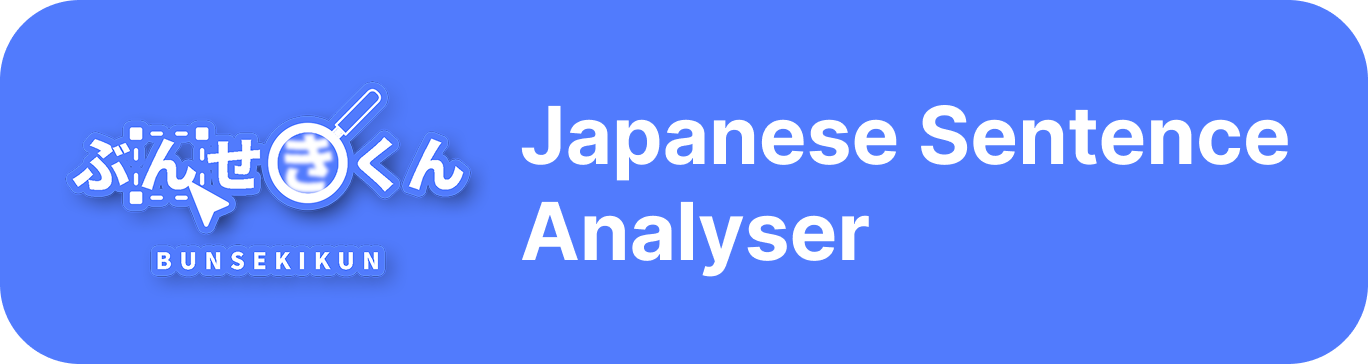
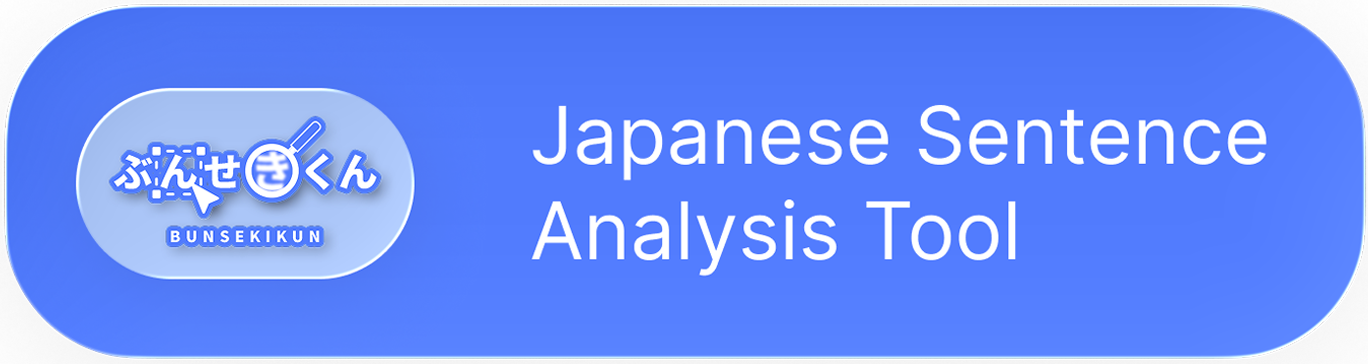
Liquid Glass実装

Changed region(s): [[0.0, 0.0, 1.0, 1.0], [0.3684, 0.272, 0.9518, 0.5137], [0.3684, 0.544, 0.7675, 0.7555]]

diff --git a/src/app/page.tsx b/src/app/page.tsx
@@ -7,11 +7,12 @@ import Icon from '@mdi/react';
 import { mdiLinkedin } from '@mdi/js';
 import { mdiGithub } from '@mdi/js';
 import { mdiEmail } from '@mdi/js';
+//import LiquidGlass from "liquid-glass-react";
+
 
 const ClickableEmailSubtitle = ({ text }: { text: string }) => {
   const emailRegex = /([a-zA-Z0-9._-]+@[a-zA-Z0-9._-]+\.[a-zA-Z0-9_-]+)/;
   const match = text.match(emailRegex);
-
   if (!match) {
     return <span className="font-light text-sm" style={{ whiteSpace: 'pre-line' }}>{text}</span>;
   }
@@ -52,8 +53,8 @@ export default function Home() {
     <>
     <div className="flex flex-col items-center justify-center min-h-screen bg-black">
       <div className="font-noto-sans-jp text-center text-2xl text-white flex flex-col items-center justify-center">
-        <div className="mb-2 hover:scale-200 transition duration-500 ease-in-out flex justify-center items-center">
-          <ThreeDObjectClient />
+        <div >
+        <ThreeDObjectClient />
         </div>
         <h1>
           <span className="font-bold text-3xl">{content[language].main}</span><br />
@@ -103,10 +104,24 @@ export default function Home() {
           </div>
         </div>
         <a
+            href="https://pr.luqmanhadi.com/"
+            target="_blank"
+            rel="noopener noreferrer"
+            className="flex items-center gap-0 px-0 py-0 m-2 rounded-4xl hover:shadow-lg shadow-orange-500/100 hover:scale-110 transition duration-500 ease-in-out flex justify-center items-cente"
+          >
+            <Image
+              src="/jikopr.png"
+              alt="自己PR"
+              width={300}
+              height={300}
+
+            />
+          </a>
+        <a
             href="https://bunsekikun.luqmanhadi.com/"
             target="_blank"
             rel="noopener noreferrer"
-            className="flex items-center gap-0 px-0 py-0 m-2 rounded-2xl hover:shadow-lg shadow-blue-500/50 hover:scale-110 transition duration-500 ease-in-out flex justify-center items-cente"
+            className="flex items-center gap-0 px-0 py-0 m-2 rounded-4xl hover:shadow-lg shadow-blue-500/100 hover:scale-110 transition duration-500 ease-in-out flex justify-center items-cente"
           >
             <Image
               src="/button1.png"
@@ -120,7 +135,7 @@ export default function Home() {
             href="https://shutokun.luqmanhadi.com/"
             target="_blank"
             rel="noopener noreferrer"
-            className="flex items-center gap-0 px-0 py-0 m-2 rounded-2xl hover:shadow-lg shadow-white hover:scale-110 transition duration-500 ease-in-out flex justify-center items-cente"
+            className="flex items-center gap-0 px-0 py-0 m-2 rounded-4xl hover:shadow-lg shadow-white hover:scale-110 transition duration-500 ease-in-out flex justify-center items-cente"
           >
             <Image
               src="/button2.png"
@@ -133,7 +148,7 @@ export default function Home() {
             href="https://iot.luqmanhadi.com/"
             target="_blank"
             rel="noopener noreferrer"
-            className="flex items-center gap-0 px-0 py-0 m-2 rounded-2xl hover:shadow-lg shadow-yellow-500/50 hover:scale-110 transition duration-500 ease-in-out flex justify-center items-center"
+            className="flex items-center gap-0 px-0 py-0 m-2 rounded-4xl hover:shadow-lg shadow-yellow-500/50 hover:scale-110 transition duration-500 ease-in-out flex justify-center items-center"
           >
             <Image
               src="/button3.png"
@@ -147,7 +162,7 @@ export default function Home() {
             href="https://oshikatsu.luqmanhadi.com/"
             target="_blank"
             rel="noopener noreferrer"
-            className="flex items-center gap-0 px-0 py-0 m-2 mb-0 rounded-2xl hover:shadow-lg shadow-pink-500/50 hover:scale-110 transition duration-500 ease-in-out flex justify-center items-center"
+            className="flex items-center gap-0 px-0 py-0 m-2 mb-0 rounded-4xl hover:shadow-lg shadow-pink-500/50 hover:scale-110 transition duration-500 ease-in-out flex justify-center items-center"
           >
             <Image
               src="/button4.png"
@@ -161,7 +176,7 @@ export default function Home() {
             href="https://cloudis.luqmanhadi.com/"
             target="_blank"
             rel="noopener noreferrer"
-            className="flex items-center gap-0 px-0 py-0 m-2 mt-4 mb-0 rounded-2xl hover:shadow-lg shadow-gray-500/50 hover:scale-110 transition duration-500 ease-in-out flex justify-center items-center"
+            className="flex items-center gap-0 px-0 py-0 m-2 mt-4 mb-0 rounded-4xl hover:shadow-lg shadow-gray-500/50 hover:scale-110 transition duration-500 ease-in-out flex justify-center items-center"
           >
             <Image
               src="/cloudis.png"
@@ -175,7 +190,7 @@ export default function Home() {
             href="https://portfolio.luqmanhadi.com/"
             target="_blank"
             rel="noopener noreferrer"
-            className="flex items-center gap-0 px-0 py-0 mt-4 mb-10 rounded-2xl hover:shadow-lg shadow-gray-500/50 hover:scale-110 transition duration-500 ease-in-out flex justify-center items-center"
+            className="flex items-center gap-0 px-0 py-0 mt-4 mb-10 rounded-4xl hover:shadow-lg shadow-gray-500/50 hover:scale-110 transition duration-500 ease-in-out flex justify-center items-center"
           >
             <Image
               src="/button5.png"
